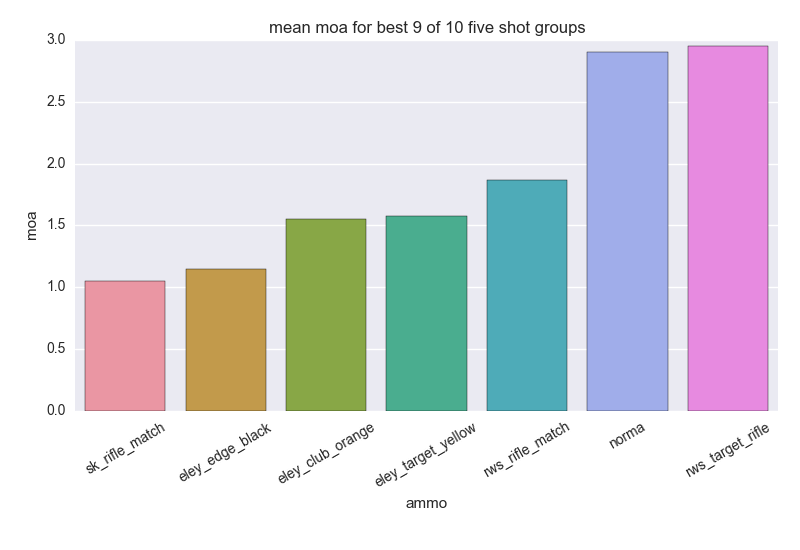
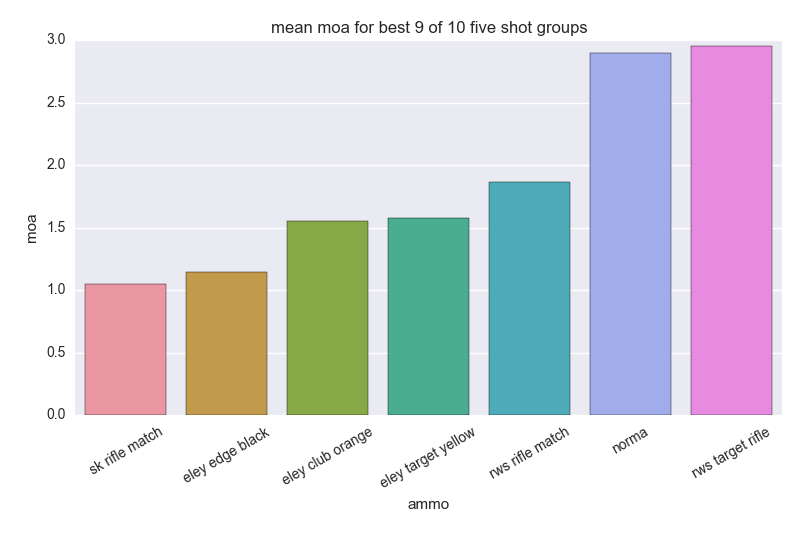
more report

diff --git a/22ammo/plot.py b/22ammo/plot.py
@@ -43,9 +43,6 @@ def postprocess(rotation=30):
     ax = plt.gca()
     for label in ax.get_xticklabels():
         label.set_rotation(rotation)
-        newtext = label.get_text().replace('_', ' ')
-        label.set_text('foo')
-        label.update({'rotation': rotation, 'text': newtext})
     plt.tight_layout()
 
 
